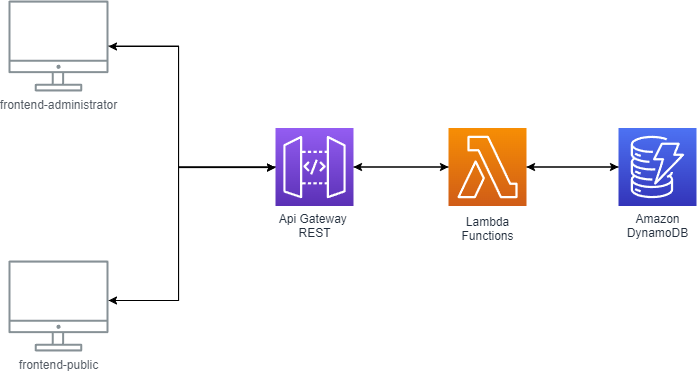
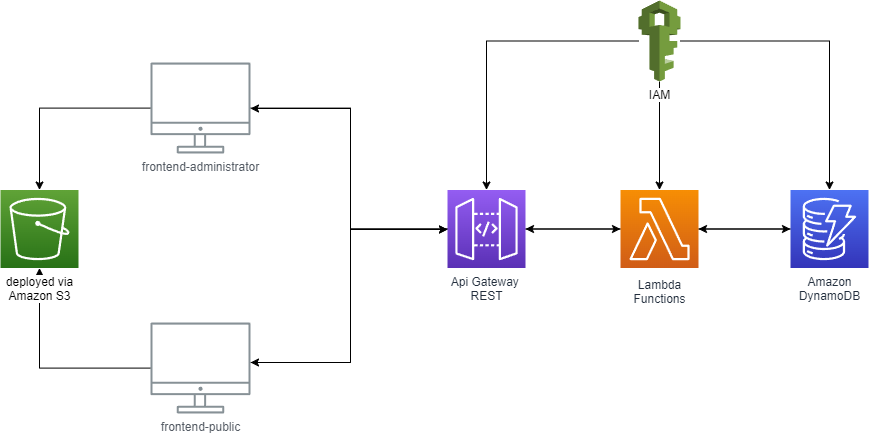
updated readme

diff --git a/infrastructure/README.md b/infrastructure/README.md
@@ -1,6 +1,6 @@
 # Infrastructure Setup
 
-This directory contains all the necessary files and instructions to set up the AWS infrastructure for the Medium Clone application, including API Gateway, DynamoDB, and Lambda functions.
+This directory contains all the necessary files and instructions to set up the AWS infrastructure for the Medium Clone application, including API Gateway, DynamoDB, Lambda functions, IAM roles, and S3 static hosting.
 
 ## Table of Contents
 
@@ -10,12 +10,16 @@ This directory contains all the necessary files and instructions to set up the A
   - [API Gateway](#api-gateway)
   - [DynamoDB](#dynamodb)
   - [Lambda Functions](#lambda-functions)
+  - [IAM Roles](#iam-roles)
+  - [S3 Static Hosting](#s3-static-hosting)
 - [Setting Up the Infrastructure](#setting-up-the-infrastructure)
   - [Step 1: Configure AWS CLI](#step-1-configure-aws-cli)
   - [Step 2: Create the DynamoDB Table](#step-2-create-the-dynamodb-table)
-  - [Step 3: Deploy Lambda Functions](#step-3-deploy-lambda-functions)
-  - [Step 4: Set Up API Gateway](#step-4-set-up-api-gateway)
-  - [Step 5: Test the API](#step-5-test-the-api)
+  - [Step 3: Create IAM Roles](#step-3-create-iam-roles)
+  - [Step 4: Deploy Lambda Functions](#step-4-deploy-lambda-functions)
+  - [Step 5: Set Up API Gateway](#step-5-set-up-api-gateway)
+  - [Step 6: Set Up S3 Static Hosting](#step-6-set-up-s3-static-hosting)
+  - [Step 7: Test the API and Static Site](#step-7-test-the-api-and-static-site)
 - [Cleaning Up](#cleaning-up)
 - [Conclusion](#conclusion)
 
@@ -26,6 +30,8 @@ This guide will walk you through setting up the backend infrastructure required 
 - **API Gateway**: To expose RESTful APIs to the frontend applications.
 - **DynamoDB**: To store and manage content.
 - **Lambda Functions**: To handle backend logic and interact with DynamoDB.
+- **IAM Roles**: To manage permissions and access control between AWS services.
+- **S3 Static Hosting**: To host the frontend applications.
 
 ## Prerequisites
 
@@ -33,7 +39,7 @@ Before you begin, ensure you have the following:
 
 - AWS CLI installed and configured with appropriate IAM credentials.
 - Node.js installed (for deploying the Lambda functions).
-- Basic understanding of AWS services like API Gateway, DynamoDB, and Lambda.
+- Basic understanding of AWS services like API Gateway, DynamoDB, Lambda, IAM, and S3.
 
 ## Infrastructure Components
 
@@ -48,6 +54,14 @@ DynamoDB will serve as the primary database for storing articles, as well as the
 ### Lambda Functions
 
 Lambda functions will contain the business logic for processing requests from the API Gateway and interacting with the DynamoDB table.
+
+### IAM Roles
+
+IAM roles are used to manage permissions for the Lambda functions to access DynamoDB and for API Gateway to invoke the Lambda functions. Roles are created with specific policies that define what actions are allowed.
+
+### S3 Static Hosting
+
+S3 will be used to host the static frontend applications (public and administrator) as static websites. This allows users to access the frontend via a web URL.
 
 ## Setting Up the Infrastructure
 
@@ -75,7 +89,38 @@ Lambda functions will contain the business logic for processing requests from th
 
 3. Save the table settings and wait for the table to be created.
 
-### Step 3: Deploy Lambda Functions
+### Step 3: Create IAM Roles
+
+1. Navigate to the IAM service in the AWS Management Console.
+
+2. Create a new IAM role for Lambda with the following policy:
+
+    - **Policy Name**: `DynamoDBAccessPolicy`
+    - **Permissions**: Allow the following actions on DynamoDB:
+    
+    ```json
+    {
+      "Version": "2012-10-17",
+      "Statement": [
+        {
+          "Effect": "Allow",
+          "Action": [
+            "dynamodb:PutItem",
+            "dynamodb:GetItem",
+            "dynamodb:Scan",
+            "dynamodb:DeleteItem"
+          ],
+          "Resource": "arn:aws:dynamodb:<region>:<account-id>:table/CMSContent"
+        }
+      ]
+    }
+    ```
+
+3. Attach this role to your Lambda function to allow it to interact with DynamoDB.
+
+4. Create another IAM role for API Gateway if you want API Gateway to invoke Lambda functions securely. Attach a policy that allows API Gateway to invoke the Lambda functions.
+
+### Step 4: Deploy Lambda Functions
 
 1. Navigate to the `lambda-functions/` directory:
 
@@ -85,19 +130,19 @@ Lambda functions will contain the business logic for processing requests from th
 
 2. Package and deploy each Lambda function using the AWS CLI or the AWS Management Console.
 
-3. Ensure each Lambda function has the necessary permissions to read/write from the DynamoDB table.
+3. Ensure each Lambda function has the necessary permissions by attaching the IAM roles created in the previous step.
 
-### Step 4: Set Up API Gateway
+### Step 5: Set Up API Gateway
 
 1. In the AWS Management Console, navigate to API Gateway.
 
 2. Create a new REST API and configure the following endpoints:
 
     - **GET /articles**: Fetch all articles.
-    - **GET /articles/{id}**: Fetch a specific article by ID.
+    - **GET /articles?id={id}**: Fetch a specific article by ID.
     - **POST /articles**: Create a new article.
     - **PUT /articles**: Update an existing article.
-    - **DELETE /articles/{id}**: Delete an article by ID.
+    - **DELETE /articles?id={id}**: Delete an article by ID.
     - **GET /about**: Fetch the "About" page content.
     - **POST /about**: Update the "About" page content.
     - **GET /contact**: Fetch the "Contact" page content.
@@ -107,11 +152,49 @@ Lambda functions will contain the business logic for processing requests from th
 
 4. Deploy the API and note down the endpoint URL.
 
-### Step 5: Test the API
+### Step 6: Set Up S3 Static Hosting
+
+1. **Create S3 Buckets**:
+    - Create two S3 buckets, one for the public frontend and one for the administrator frontend.
+    - Name them accordingly (e.g., `medium-clone-public` and `medium-clone-admin`).
+
+2. **Upload Frontend Files**:
+    - Build your React applications.
+    - Upload the contents of the `build` folder (generated after building your React apps) to the respective S3 buckets.
+
+3. **Enable Static Website Hosting**:
+    - In the S3 bucket, go to the **Properties** tab.
+    - Scroll down to the **Static website hosting** section.
+    - Enable static website hosting and set the **Index document** to `index.html`.
+    - Note down the **Endpoint** URL provided here. This is the URL you should use to access your website.
+
+4. **Configure Bucket Permissions**:
+    - Make the bucket publicly accessible by adding a bucket policy:
+
+    ```json
+    {
+      "Version": "2012-10-17",
+      "Statement": [
+        {
+          "Sid": "PublicReadGetObject",
+          "Effect": "Allow",
+          "Principal": "*",
+          "Action": "s3:GetObject",
+          "Resource": "arn:aws:s3:::your-bucket-name/*"
+        }
+      ]
+    }
+    ```
+
+    - Replace `your-bucket-name` with the actual name of your S3 bucket.
+
+### Step 7: Test the API and Static Site
 
 1. Use tools like Postman, cURL, or your frontend application to test the API endpoints.
 
-2. Ensure that the API is correctly interacting with the Lambda functions and that data is being stored/retrieved from DynamoDB as expected.
+2. Access the frontend applications through the S3 static hosting URLs.
+
+3. Ensure that the API is correctly interacting with the Lambda functions and that data is being stored/retrieved from DynamoDB as expected.
 
 ## Cleaning Up
 
@@ -123,6 +206,10 @@ If you need to clean up your AWS resources, follow these steps:
 
 3. Delete the API Gateway.
 
+4. Delete the S3 buckets.
+
+5. Remove any IAM roles that were created specifically for this project.
+
 ## Conclusion
 
-By following this guide, you have successfully set up the backend infrastructure for the Medium Clone application using AWS services. This setup allows for a scalable, serverless backend that can handle CRUD operations for articles and page content efficiently.
+By following this guide, you have successfully set up the backend and frontend infrastructure for the Medium Clone application using AWS services. This setup allows for a scalable, serverless architecture that efficiently handles CRUD operations for articles and page content, and serves a static website via S3.
